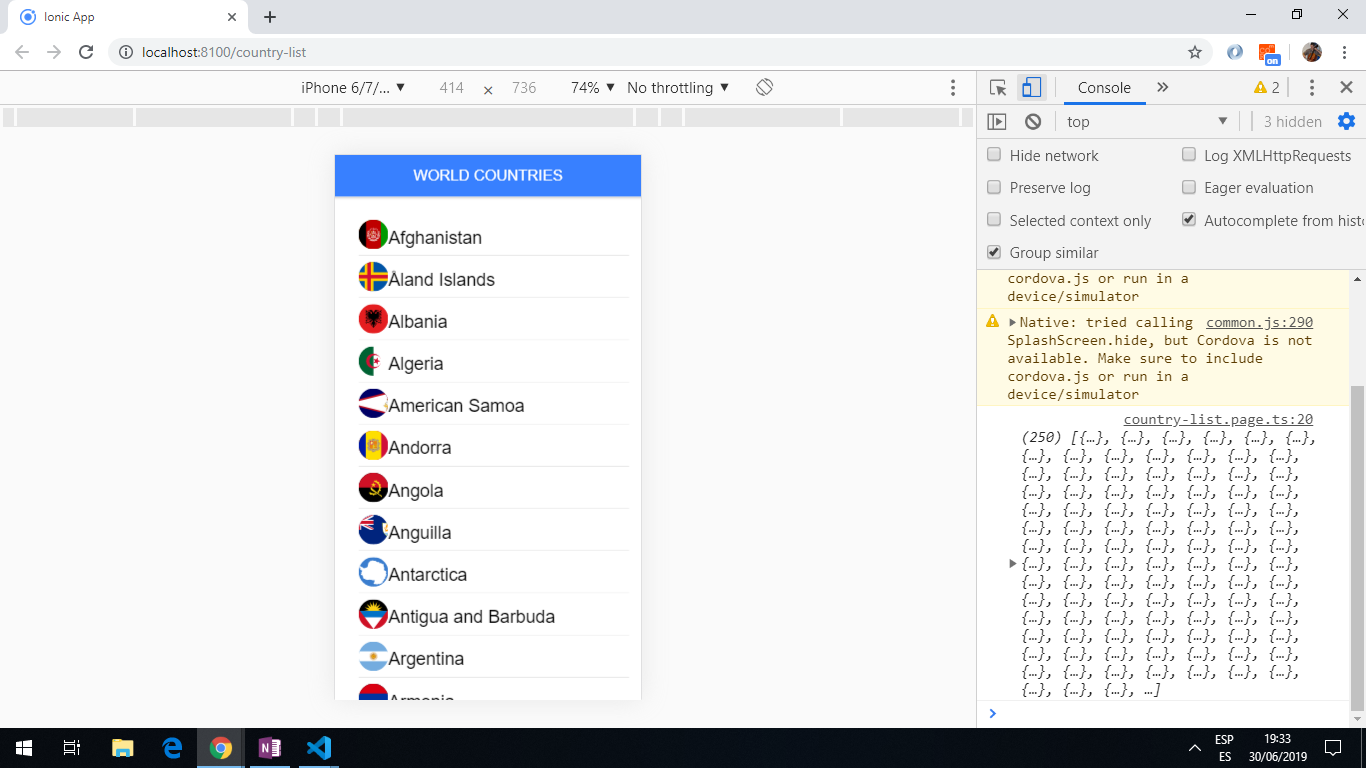
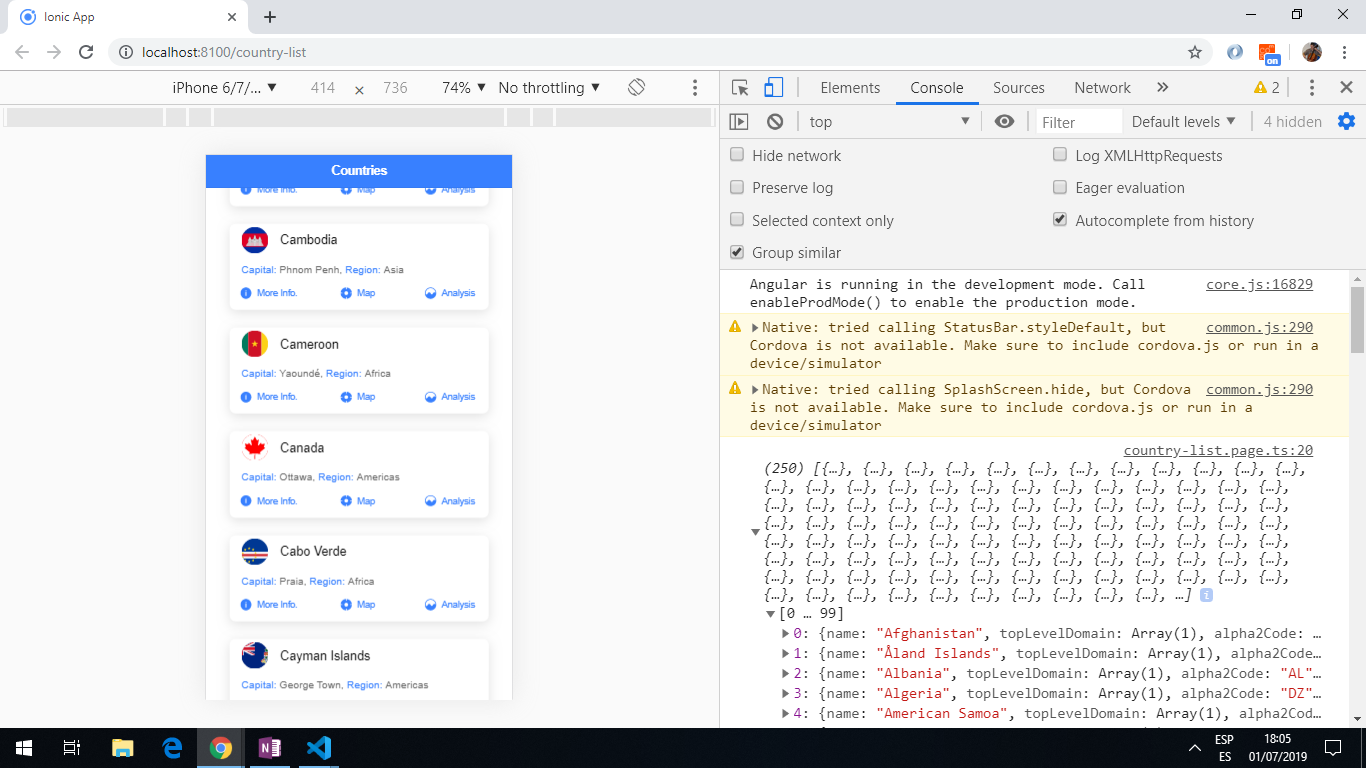
country list page improved

diff --git a/src/app/pages/country-list/country-list.page.html b/src/app/pages/country-list/country-list.page.html
@@ -1,22 +1,49 @@
 <ion-header>
   <ion-toolbar color="primary">
-    <ion-title text-center>WORLD COUNTRIES</ion-title>
+		<ion-buttons slot="start">
+      <ion-menu-button></ion-menu-button>
+    </ion-buttons>
+    <ion-title>Countries</ion-title>
   </ion-toolbar>
 </ion-header>
 
 <ion-content padding>
-<!--   <ion-card *ngFor="let country of countries">
-    <ion-card-title text-wrap style="font-size: 1rem; color: #456f54;">{{country.name}}</ion-card-title>
-  </ion-card> -->
+	<ion-card class="country-card" *ngFor="let country of countries">
+		<ion-card-content>
+			<ion-item detail="false" lines="none" routerLink="">
+				<ion-avatar slot="start">
+					<img src="{{country.flag}}" alt="country flag picture">
+				</ion-avatar>
+					{{country.name}}
+			</ion-item>
+			<p class="para-text" ><span class="color-text">Capital: </span>{{country.capital}},
+			<span class="color-text">Region: </span>{{country.region}}</p>
+		</ion-card-content>
 
-	<ion-list>
-		<ion-item *ngFor="let country of countries">
-			<ion-avatar item-start>
-				<img src="{{country.flag}}">
-			</ion-avatar>
-			<h2>{{country.name}}</h2>
-		</ion-item>
-	</ion-list>
+		<ion-row class="ion-no-padding ion-justify-content-center">
+      <ion-col size="4" class="ion-text-left">
+        <ion-button fill="clear" size="small" color="primary" (click)="goToCountryDetail()">
+          <ion-icon name="information-circle" slot="start"></ion-icon>
+            More Info.
+        </ion-button>
+      </ion-col>
+        <ion-col size="4" class="ion-text-center">
+          <ion-button fill="clear" size="small" color="primary" (click)="goToGoogleMaps()">
+            <ion-icon name="locate" slot="start"></ion-icon>
+              Map
+          </ion-button>
+        </ion-col>
+      <ion-col size="4" class="ion-text-right">
+        <ion-button fill="clear" size="small" color="primary" (click)="goToWorldBankInfo()">
+          <ion-icon name="analytics" slot="start"></ion-icon>
+            Analysis
+        </ion-button>
+      </ion-col>
+    </ion-row>
 
-
+					</ion-card>		
+		<!-- </ion-item-sliding>			 -->
+				<!-- </ion-col>
+			</ion-row>
+		</ion-grid> -->
 <ion-content>

diff --git a/src/app/pages/country-list/country-list.page.scss b/src/app/pages/country-list/country-list.page.scss
@@ -1,0 +1,33 @@
+/* .scroll {
+  background: #ededed;
+} */
+
+/* h4 {
+	margin: 0;
+} */
+
+.color-text {
+	color: #3880FF;
+}
+
+.para-text {
+	margin: 8px 0 0 16px;
+}
+
+/* .country-card {
+  height: 100%;
+  display: flex;
+} 
+
+.country-card ion-card-header {
+  padding: 0;
+}
+
+.country-card ion-card-header .item {
+  padding: 4px 16px;
+*/
+.country-card ion-card-content {
+  flex: 1 1 auto;
+
+  padding: 0;
+}

diff --git a/src/app/pages/country-list/country-list.page.ts b/src/app/pages/country-list/country-list.page.ts
@@ -22,4 +22,16 @@ export class CountryListPage implements OnInit {
 			});
 	}
 
+	goToCountryDetail() {
+
+	}
+
+
+	goToGoogleMaps() {
+
+	}
+
+	goToWorldBankInfo() {
+
+	}
 }

diff --git a/README.md b/README.md
@@ -1,6 +1,6 @@
 # Ionic Country Data
 
-App that displays details about countries using data from the [Rest Countries](https://restcountries.eu/) using the [Ionic 5 framework](https://ionicframework.com/docs).
+App that displays details about countries using data from the [Rest Countries](https://restcountries.eu/), using the [Ionic 5 framework](https://ionicframework.com/docs).
 
 ## Table of contents
 
@@ -37,7 +37,7 @@ App that displays details about countries using data from the [Rest Countries](h
 
 ## Code Examples
 
-* Extract from `service.ts` that gets data from the API.
+* tba.
 
 ```typescript
 tba
@@ -45,13 +45,21 @@ tba
 
 ## Features
 
-* tba
+* Displays list of countries with country flag, title, capital and region.
+
+* (future) search bar to search for country from list.
+
+* (future) clicking on the More Info button will route to a detailed info page.
+
+* (future) clicking on the Map button will route to a (Google) Map view of the country.
+
+* (future) clicking on Analysis will route to World Bank statistics - 2nd API.
 
 ## Status & To-do list
 
 * Status: Working Country List page only.
 
-* To-do: Use ion-cards and add detail page the about tabs etc.
+* To-do: add search, add detail page. Add tabs at bottom: home, contact, about tabs. Add top bar menu.
 
 ## Inspiration
 
